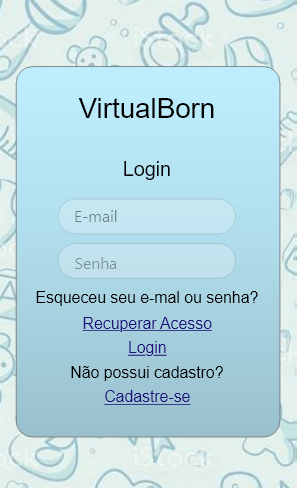
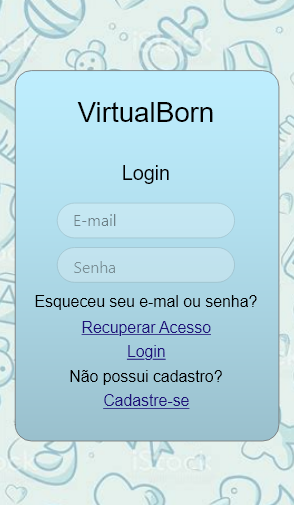
Images

diff --git a/public/css/resume.min.css b/public/css/resume.min.css
@@ -164,4 +164,5 @@ a:active,a:focus,a:hover{
    flex-wrap: wrap;
    align-items: center;
    justify-content: space-around;
+   box-sizing: border-box;
  }

diff --git a/public/css/resume.css b/public/css/resume.css
@@ -196,4 +196,5 @@
     flex-wrap: wrap;
     align-items: center;
     justify-content: space-around;
+    box-sizing: border-box;
   }
